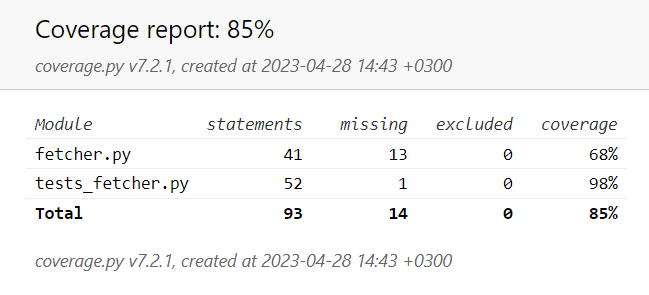
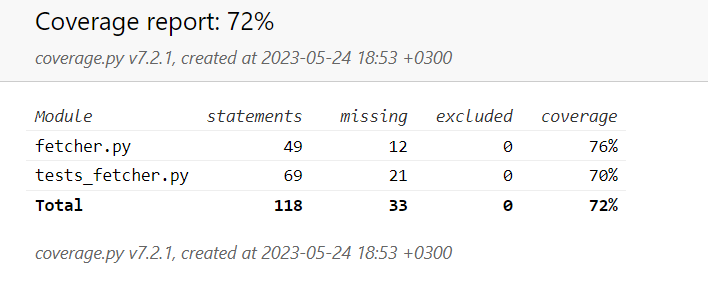
Add files via upload

diff --git a/07/tests_fetcher.py b/07/tests_fetcher.py
@@ -1,43 +1,24 @@
 import unittest
-import subprocess
-import time
 from unittest.mock import AsyncMock
+from unittest import mock
 import sys
+import asyncio
 import fetcher
 
 
 class FetcherTests(unittest.TestCase):
     def test_get_parameters(self):
-        sys.argv = ["fetcher.py", "abc", "URLS.txt"]
-        with self.assertRaises(fetcher.IncorrectParameters):
+        sys.argv = ["fetcher.py", "-2", "URLS.txt"]
+        with self.assertRaises(fetcher.IncorrectArgs):
             fetcher.get_parametrs()
 
         sys.argv = ["fetcher.py", "1", "URLS"]
-        with self.assertRaises(fetcher.IncorrectParameters):
+        with self.assertRaises(fetcher.IncorrectArgs):
             fetcher.get_parametrs()
 
         sys.argv = ["fetcher.py", "10", "URLS.txt"]
         THREADS, PATH = fetcher.get_parametrs()
         self.assertEqual((THREADS, PATH), (10, "URLS.txt"))
-
-        sys.argv = ["fetcher.py", "-c", "10", "URLS.txt"]
-        THREADS, PATH = fetcher.get_parametrs()
-        self.assertEqual((THREADS, PATH), (10, "URLS.txt"))
-
-    def test_fetcher_time(self):
-        def time_with_10_threads():
-            t1 = time.time()
-            subprocess.run(["python", "fetcher.py", "10", "URLS.txt"])
-            t2 = time.time()
-            return t2 - t1
-
-        def time_with_1_thread():
-            t1 = time.time()
-            subprocess.run(["python", "fetcher.py", "2", "URLS.txt"])
-            t2 = time.time()
-            return t2 - t1
-
-        self.assertTrue(time_with_10_threads() < time_with_1_thread())
 
     def test_generator_url(self):
         PATH = "URLS.txt"
@@ -59,25 +40,80 @@ class FetcherTests(unittest.TestCase):
         self.assertEqual(list(fetcher.generator_url(PATH)), expected_answer)
 
 
-class FetchURLTest(unittest.IsolatedAsyncioTestCase):
-    async def test_mocking_fetch_url(self):
-        fetcher.fetch_url = AsyncMock()
-        fetcher.fetch_url.return_value = "success fetched url"
-        self.assertEqual("success fetched url", await fetcher.fetch_url())
+class TestFetchlURL(unittest.TestCase):
+    async def mock_response(self, status):
+        response = mock.Mock()
+        response.status = status
+        return response
+
+    async def test_fetch_url_success(self):
+        url = "https://ru.wikipedia.org/wiki/Python"
+        sem = asyncio.Semaphore(5)
+        counter = {"processed": 0}
+
+        session = AsyncMock()
+        session.return_value = await self.mock_response(200)
+
+        await fetcher.fetch_url(sem, session, url, counter)
+
+        self.assertEqual(counter["processed"], 1)
+        session.get.assert_called_once_with(url)
+
+    async def test_fetch_url_failure(self):
+        url = "https://ru.wikipedia.org/wiki/Python"
+        sem = asyncio.Semaphore(5)
+        counter = {"processed": 0}
+
+        session = AsyncMock()
+        session.get.return_value = await self.mock_response(404)
+
+        await fetcher.fetch_url(sem, session, url, counter)
+
+        self.assertEqual(counter["processed"], 0)
+        session.get.assert_called_once_with(url)
+
+        # проверка что в консоль вывелось сообщение с ошибкой
+        print.assert_called_once_with(f"{url} - ошибка открытия")
 
 
-class FetchSeveralURLsTest(unittest.IsolatedAsyncioTestCase):
+class TestFetchSeveralURLs(unittest.IsolatedAsyncioTestCase):
     async def test_fetch_several_urls(self):
-        my_mock = unittest.mock.AsyncMock()
-        fetcher.fetch_several_urls = my_mock
-        fetcher.fetch_several_urls.return_value = "success"
-        await fetcher.fetch_several_urls(10, "URLS.txt")
-        await fetcher.fetch_several_urls(1, "URLS.txt")
-        expected_calls = [
-            unittest.mock.call(10, "URLS.txt"),
-            unittest.mock.call(1, "URLS.txt"),
+        THREADS = 5
+        PATH = "URLS.txt"
+
+        sem_mock = AsyncMock()
+        response = AsyncMock()
+        response.status.return_value = 200
+        session_mock = AsyncMock()
+        session_mock.get.return_value.__aenter__.return_value = response
+        counter = {"processed": 0}
+        expected_processed = 3
+
+        async def fetch_url_mock(sem, session, url, counter):
+            counter["processed"] += 1
+
+        generator_url_mock = mock.Mock()
+        generator_url_mock.return_value = [
+            "https://ru.wikipedia.org/wiki/Python",
+            "https://ru.wikipedia.org/wiki/C%2B%2B",
+            "https://ru.wikipedia.org/wiki/TypeScript",
         ]
-        self.assertEqual(expected_calls, fetcher.fetch_several_urls.mock_calls)
+
+        with mock.patch("asyncio.Semaphore", sem_mock), mock.patch(
+            "aiohttp.ClientSession", return_value=session_mock
+        ), mock.patch("fetcher.fetch_url", fetch_url_mock), mock.patch(
+            "fetcher.generator_url", generator_url_mock
+        ):
+            total_fetched, time_spent = await fetcher.fetch_several_urls(THREADS, PATH)
+            print(f"Всего обработано = {total_fetched}")
+            self.assertEqual(
+                total_fetched, expected_processed
+            )  # проверка, что обработалось именно 3 урла
+            self.assertGreater(
+                time_spent, 0
+            )  # проверка, что время выполнения больше нуля
+            generator_url_mock.assert_called_once_with(PATH)
+            sem_mock.assert_called_once_with(5)
 
 
 if __name__ == "__main__":

diff --git a/07/fetcher.py b/07/fetcher.py
@@ -1,55 +1,74 @@
-import sys
 import os
+import time
 import asyncio
+import argparse
 import aiohttp
 
 
-class IncorrectParameters(Exception):
+class IncorrectArgs(Exception):
     pass
 
 
 def get_parametrs():
-    THREADS, PATH = None, None
-    for i in range(1, len(sys.argv)):
-        if sys.argv[i] == "-c" and sys.argv[i + 1].isnumeric():
-            THREADS = int(sys.argv[i + 1])
-        if os.path.exists(sys.argv[i]):
-            PATH = sys.argv[i]
-    if not THREADS:
-        try:
-            THREADS = int(sys.argv[1])
-        except Exception:
-            raise IncorrectParameters(
-                "Введите корректное число одновременных запросов"
-            )
-    if not PATH:
-        raise IncorrectParameters("Введите корректный путь до файла с URL'ами")
-    return THREADS, PATH
+    parser = argparse.ArgumentParser()
+    parser.add_argument(
+        'threads',
+        type=int,
+        help='Количество одновременных запросов'
+    )
+    parser.add_argument(
+        'url_file',
+        type=str,
+        help="Файл с URL'ами"
+    )
+    args = parser.parse_args()
+    if args.threads <= 0:
+        raise IncorrectArgs(
+            "Установите корректное количество одновременных запросов"
+        )
+    if not os.path.exists(args.url_file):
+        raise IncorrectArgs("Установите корректное название файла с URL'ами")
+    return args.threads, args.url_file
 
 
 def generator_url(PATH):
-    with open(PATH) as file:
+    with open(PATH, encoding='utf-8') as file:
         for url in file:
             yield url.strip()
 
 
-async def fetch_url(sem, session, url):
+async def fetch_url(sem, session, url, counter):
     async with sem:
         async with session.get(url) as resp:
-            assert resp.status == 200
+            if resp.status != 200:
+                print(f"{url} - ошибка открытия")
+                return
+            counter['processed'] += 1
+            await asyncio.sleep(0.001)
+            # можно выводить статистику по обработанным урлам с каждым десятком
+            # if counter['processed'] % 10 == 0:
+            #     print(f"обработано: {counter['processed']}")
 
 
 async def fetch_several_urls(THREADS, PATH):
+    t1 = time.time()
     sem = asyncio.Semaphore(THREADS)
+    counter = {'processed': 0}
     async with aiohttp.ClientSession() as session:
         tasks = []
         for url in generator_url(PATH):
-            task = asyncio.create_task(fetch_url(sem, session, url))
+            task = asyncio.create_task(fetch_url(sem, session, url, counter))
             tasks.append(task)
         await asyncio.gather(*tasks)
-
+    t2 = time.time()
+    time_spent = t2 - t1
+    return counter['processed'], time_spent
 
 if __name__ == "__main__":
     THREADS, PATH = get_parametrs()
     loop = asyncio.get_event_loop()
-    responses = loop.run_until_complete(fetch_several_urls(THREADS, PATH))
+    result, time_spent = loop.run_until_complete(
+        fetch_several_urls(THREADS, PATH)
+    )
+    print(f"Обработано всего: {result} url'ов")
+    print(f"Заняло времени: {time_spent} сек")
